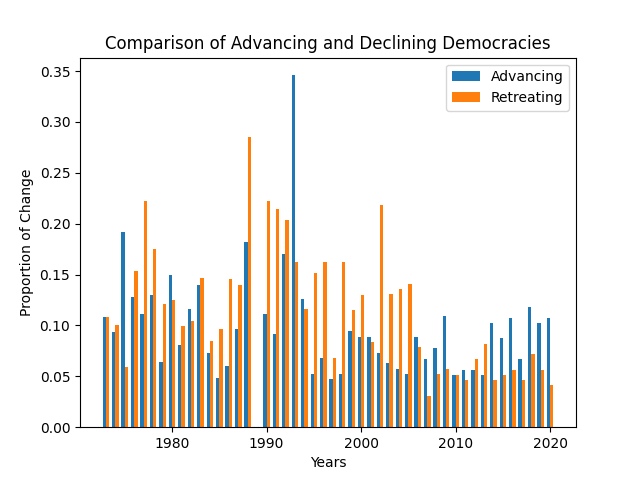
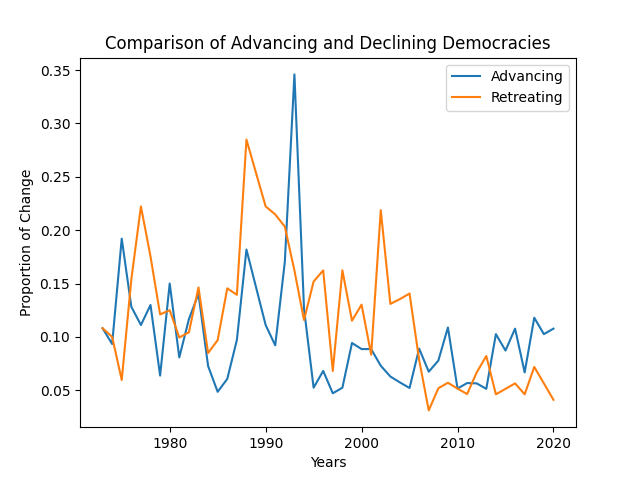
move 2b to line graph

diff --git a/main.py b/main.py
@@ -89,8 +89,8 @@ def clean_for_countries(data):
 
 def plot_advancing_retreating(data):
     width = .35  # width of the bars
-    plt.bar(data.columns - width/2.0, data.T['advancing'], width, label='Advancing')
-    plt.bar(data.columns + width/2.0, data.T['retreating'], width, label='Retreating')
+    plt.plot(data.columns, data.T['advancing'], label='Advancing')
+    plt.plot(data.columns, data.T['retreating'], label='Retreating')
     plt.ylabel("Proportion of Change")
     plt.title("Comparison of Advancing and Declining Democracies")
     plt.xlabel("Years")
